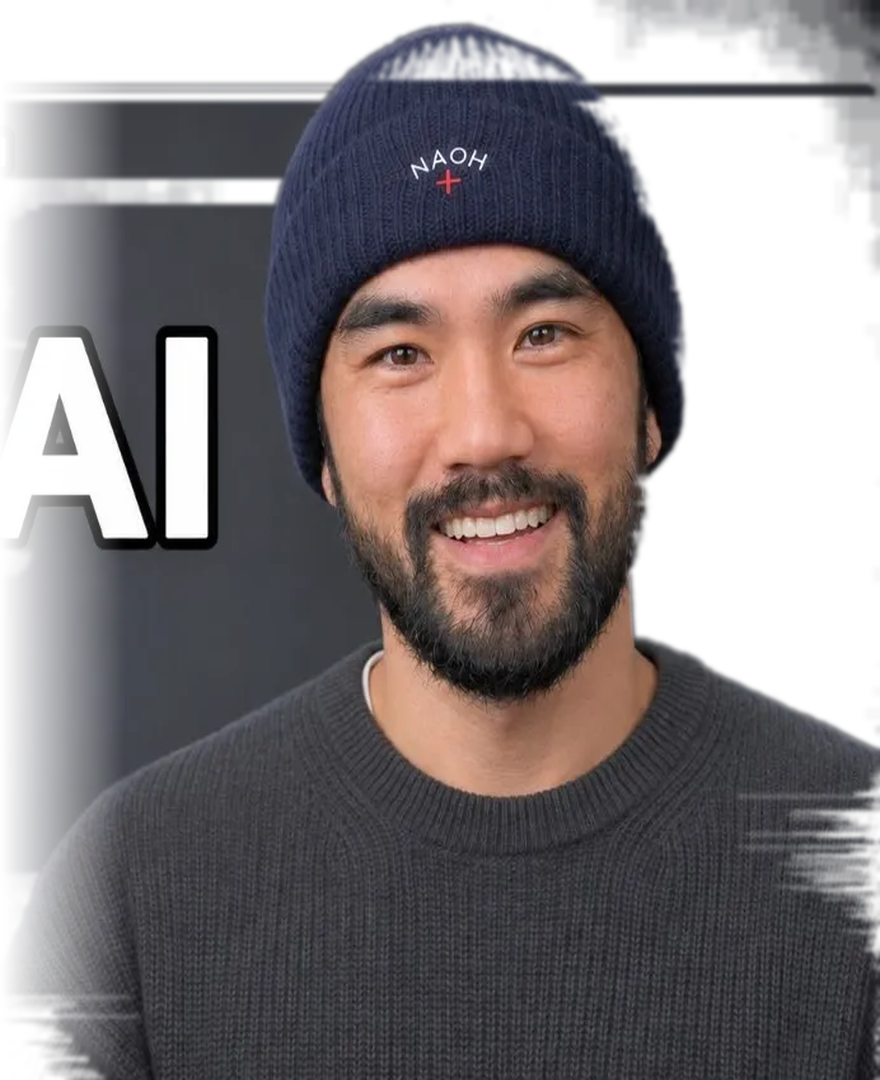
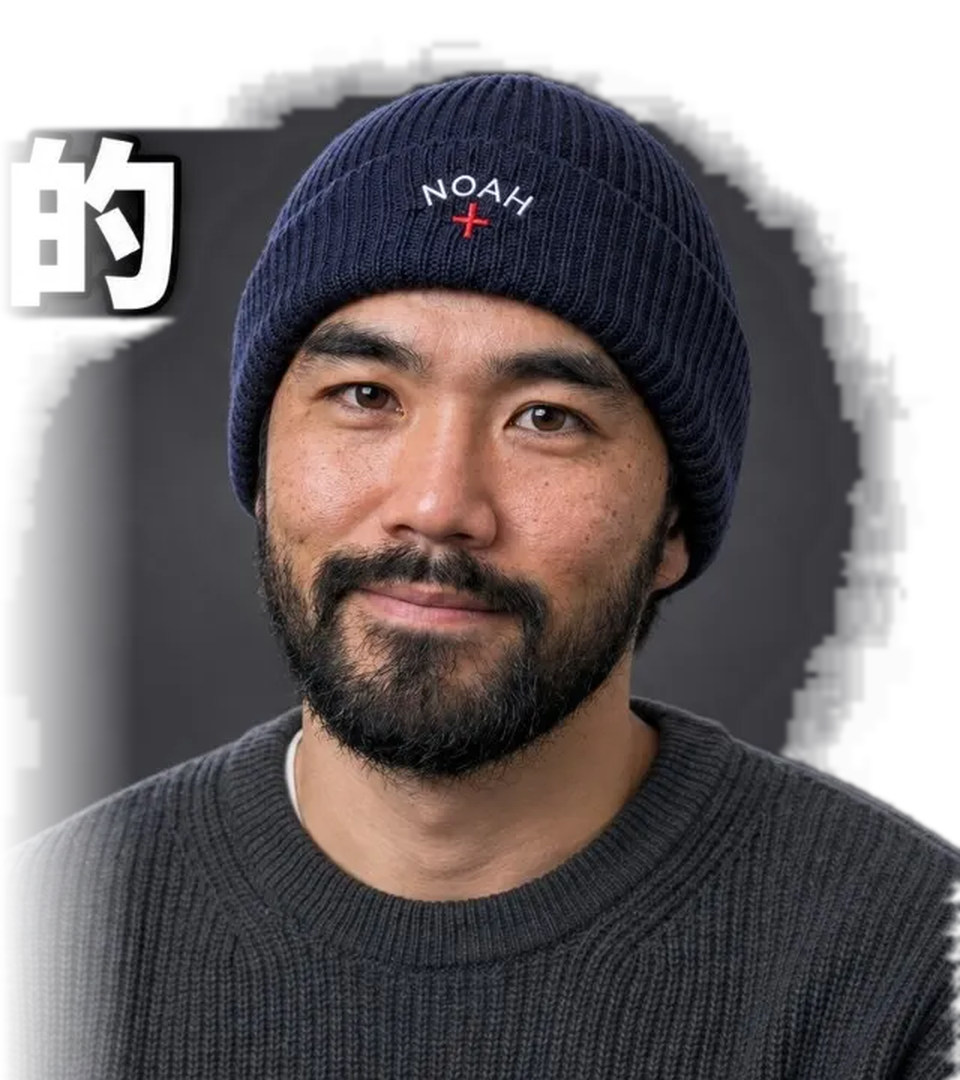
fix(v3): spotless studio portrait cutout from 07_nnTqbMhKr3E and SEC CapEx XBRL tag

diff --git a/src/garychen_pipeline/thumbnail_gen.py b/src/garychen_pipeline/thumbnail_gen.py
@@ -65,7 +65,7 @@ def render_studio_thumbnail(script: EpisodeScript, out_png: Path):
         filter: drop-shadow(0 14px 22px rgba(0,0,0,0.72));
       }}
     </style></head><body>
-      {f'<img src="{portrait_uri}" style="position:absolute;right:0;bottom:0;height:1080px;width:880px;object-fit:cover;z-index:5;"/>' if portrait_uri else ''}
+      {f'<img src="{portrait_uri}" style="position:absolute;right:0;bottom:0;height:1080px;width:836px;object-fit:contain;z-index:5;"/>' if portrait_uri else ''}
       <div style="position:absolute;left:84px;top:96px;z-index:10;max-width:1140px;">
         <div class="big-stroke" style="color:#FFC700;">{esc(script.thumbnail_line1)}</div>
         <div class="big-stroke" style="color:#FFFFFF;margin-top:8px;">{esc(script.thumbnail_line2)}</div>

diff --git a/src/garychen_pipeline/crawler.py b/src/garychen_pipeline/crawler.py
@@ -183,7 +183,7 @@ class PublicInfoCrawler:
                 op_cur, op_prev, _ = latest_annual_pair(("OperatingIncomeLoss",))
                 ni_cur, ni_prev, _ = latest_annual_pair(("NetIncomeLoss",))
                 ocf_cur, ocf_prev, _ = latest_annual_pair(("NetCashProvidedByUsedInOperatingActivities",))
-                capex_cur, capex_prev, _ = latest_annual_pair(("PaymentsToAcquirePropertyPlantAndEquipment",))
+                capex_cur, capex_prev, _ = latest_annual_pair(("PaymentsToAcquireProductiveAssets", "PaymentsToAcquirePropertyPlantAndEquipment"))
 
                 if not rev_cur:
                     continue
